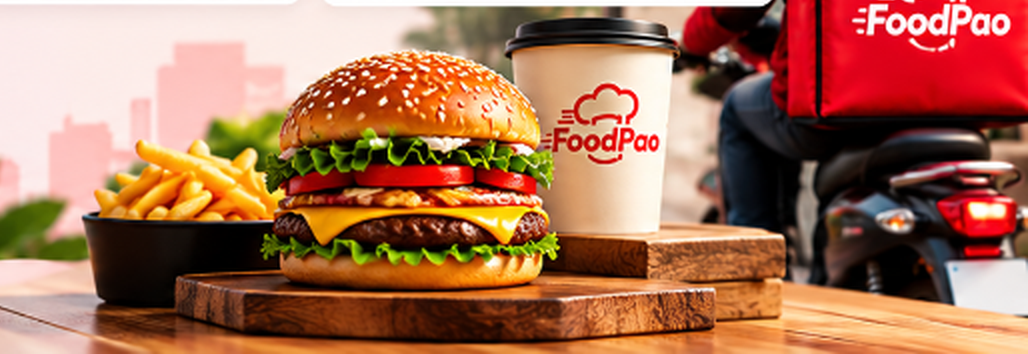
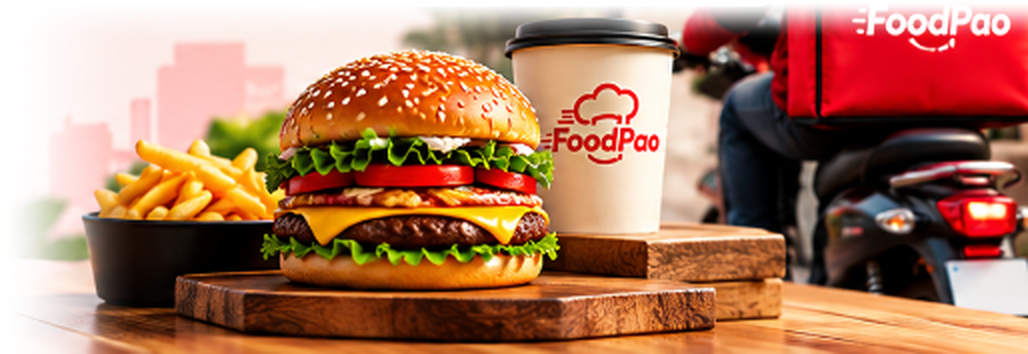
fix(partner): feather artwork edges, eliminate empty gap, and balance partner section

Changed region(s): [[0.0, 0.3418, 0.1245, 1.0], [0.0, 0.0, 1.0, 0.0932]]

diff --git a/css/style.css b/css/style.css
@@ -1374,7 +1374,7 @@ ul {
   box-shadow: 0 20px 50px rgba(0, 0, 0, 0.04), 0 1px 3px rgba(0, 0, 0, 0.02);
   position: relative;
   overflow: hidden;
-  padding: 56px 56px 0 56px;
+  padding: 48px 0 0 52px;
 }
 
 /* Subtle decorative backdrop blob */
@@ -1393,8 +1393,8 @@ ul {
 .partner-flex-layout {
   display: grid;
   grid-template-columns: 1.05fr 1.25fr;
-  gap: 40px;
-  align-items: start;
+  gap: 36px;
+  align-items: end;
   position: relative;
   z-index: 2;
 }
@@ -1403,8 +1403,8 @@ ul {
 .partner-content-col {
   display: flex;
   flex-direction: column;
-  padding-bottom: 56px;
-  z-index: 2;
+  padding-bottom: 48px;
+  z-index: 3;
 }
 
 .partner-badge-pill {
@@ -1435,7 +1435,7 @@ ul {
   line-height: 1.15;
   color: #111827;
   letter-spacing: -0.025em;
-  margin-bottom: 28px;
+  margin-bottom: 22px;
 }
 
 .partner-title .highlight-red {
@@ -1445,10 +1445,10 @@ ul {
 .partner-bullets-list {
   list-style: none;
   padding: 0;
-  margin: 0 0 36px 0;
+  margin: 0 0 30px 0;
   display: flex;
   flex-direction: column;
-  gap: 15px;
+  gap: 13px;
 }
 
 .partner-bullet-item {
@@ -1544,36 +1544,37 @@ ul {
 .partner-visual-stage {
   display: flex;
   flex-direction: column;
-  justify-content: space-between;
+  justify-content: flex-end;
   position: relative;
-  height: 100%;
+  width: 100%;
 }
 
 .partner-cards-grid {
   display: grid;
   grid-template-columns: repeat(2, 1fr);
-  gap: 16px;
-  margin-bottom: 24px;
+  gap: 14px;
+  padding-right: 52px;
+  margin-bottom: 12px;
   position: relative;
   z-index: 3;
 }
 
 .partner-card-item {
   background: #FFFFFF;
-  border: 1px solid rgba(0, 0, 0, 0.06);
+  border: 1px solid rgba(255, 43, 84, 0.1);
   border-radius: 18px;
-  padding: 12px 16px;
+  padding: 12px 15px;
   display: flex;
   align-items: center;
   gap: 12px;
-  box-shadow: 0 8px 24px rgba(0, 0, 0, 0.05);
+  box-shadow: 0 10px 24px rgba(0, 0, 0, 0.04), 0 2px 6px rgba(255, 43, 84, 0.04);
   transition: all var(--transition-fast);
   cursor: pointer;
 }
 
 .partner-card-item:hover {
-  transform: translateY(-4px);
-  box-shadow: 0 14px 30px rgba(0, 0, 0, 0.09);
+  transform: translateY(-3px);
+  box-shadow: 0 16px 32px rgba(255, 43, 84, 0.12);
   border-color: rgba(255, 43, 84, 0.3);
 }
 
@@ -1583,8 +1584,9 @@ ul {
   border-radius: 50%;
   overflow: hidden;
   flex-shrink: 0;
-  background: #F8FAFC;
-  box-shadow: 0 2px 8px rgba(0, 0, 0, 0.08);
+  background: #FFF1F3;
+  border: 2px solid #FFE4E8;
+  box-shadow: 0 2px 8px rgba(0, 0, 0, 0.06);
 }
 
 .card-thumb-img {
@@ -1599,7 +1601,7 @@ ul {
 }
 
 .card-store-name {
-  font-size: 0.96rem;
+  font-size: 0.98rem;
   font-weight: 800;
   color: #0F172A;
   margin: 0;
@@ -1609,7 +1611,7 @@ ul {
 .card-store-status {
   font-size: 0.72rem;
   color: #64748B;
-  font-weight: 500;
+  font-weight: 600;
   display: block;
   margin-top: 3px;
 }
@@ -1647,19 +1649,21 @@ ul {
 /* Lower Visual Artwork (Table with Burger, Fries, FoodPao Cup, & Delivery Rider) */
 .partner-bottom-artwork {
   width: 100%;
-  margin-top: auto;
   display: flex;
   justify-content: flex-end;
   align-items: flex-end;
   line-height: 0;
+  position: relative;
+  z-index: 2;
 }
 
 .partner-art-img {
   width: 100%;
-  max-height: 250px;
-  object-fit: contain;
+  max-height: 285px;
+  object-fit: cover;
   object-position: right bottom;
-  filter: drop-shadow(0 12px 24px rgba(0, 0, 0, 0.06));
+  display: block;
+  filter: drop-shadow(0 14px 28px rgba(0, 0, 0, 0.07));
 }
 
 /* --------------------------------------------------------------------------
@@ -2650,10 +2654,19 @@ ul {
   .partner-flex-layout {
     grid-template-columns: 1fr;
     gap: 36px;
+    align-items: start;
   }
 
   .partner-card-wrapper {
     padding: 40px 32px 0 32px;
+  }
+
+  .partner-cards-grid {
+    padding-right: 0;
+  }
+
+  .partner-bottom-artwork {
+    margin-right: -32px;
   }
 
   .partner-title {
@@ -2928,12 +2941,13 @@ ul {
 
   .partner-card-wrapper {
     padding: 28px 18px 0 18px;
-    border-radius: 22px;
+    border-radius: 24px;
   }
 
   .partner-flex-layout {
     grid-template-columns: 1fr !important;
     gap: 28px;
+    align-items: start;
   }
 
   .partner-title {
@@ -2960,14 +2974,19 @@ ul {
   .partner-cards-grid {
     grid-template-columns: 1fr !important;
     gap: 12px;
+    padding-right: 0;
   }
 
   .partner-card-item {
     padding: 10px 14px;
   }
 
+  .partner-bottom-artwork {
+    margin-right: -18px;
+  }
+
   .partner-art-img {
-    max-height: 180px;
+    max-height: 200px;
   }
 
   /* How It Works Mobile */

diff --git a/index.html b/index.html
@@ -11,7 +11,7 @@
   <link href="https://fonts.googleapis.com/css2?family=Caveat:wght@600;700&family=Plus+Jakarta+Sans:wght@400;500;600;700;800&display=swap" rel="stylesheet">
   
   <!-- Main CSS -->
-  <link rel="stylesheet" href="css/style.css?v=7.0">
+  <link rel="stylesheet" href="css/style.css?v=8.0">
   
   <!-- Favicon with new FoodPao logo -->
   <link rel="icon" type="image/png" href="assets/images/foodpao-logo.png">
@@ -375,8 +375,8 @@
 
               <!-- Main Title -->
               <h2 class="partner-title">
-                Grow Your Business <span class="highlight-red">With</span><br>
-                <span class="highlight-red">Food Pao</span>
+                Grow Your Business<br>
+                <span class="highlight-red">With FoodPao</span>
               </h2>
 
               <!-- 5 Bullet Features -->
@@ -949,6 +949,6 @@
   <div class="toast-container" id="toastContainer"></div>
 
   <!-- Main JavaScript -->
-  <script src="js/script.js?v=7.0"></script>
+  <script src="js/script.js?v=8.0"></script>
 </body>
 </html>
